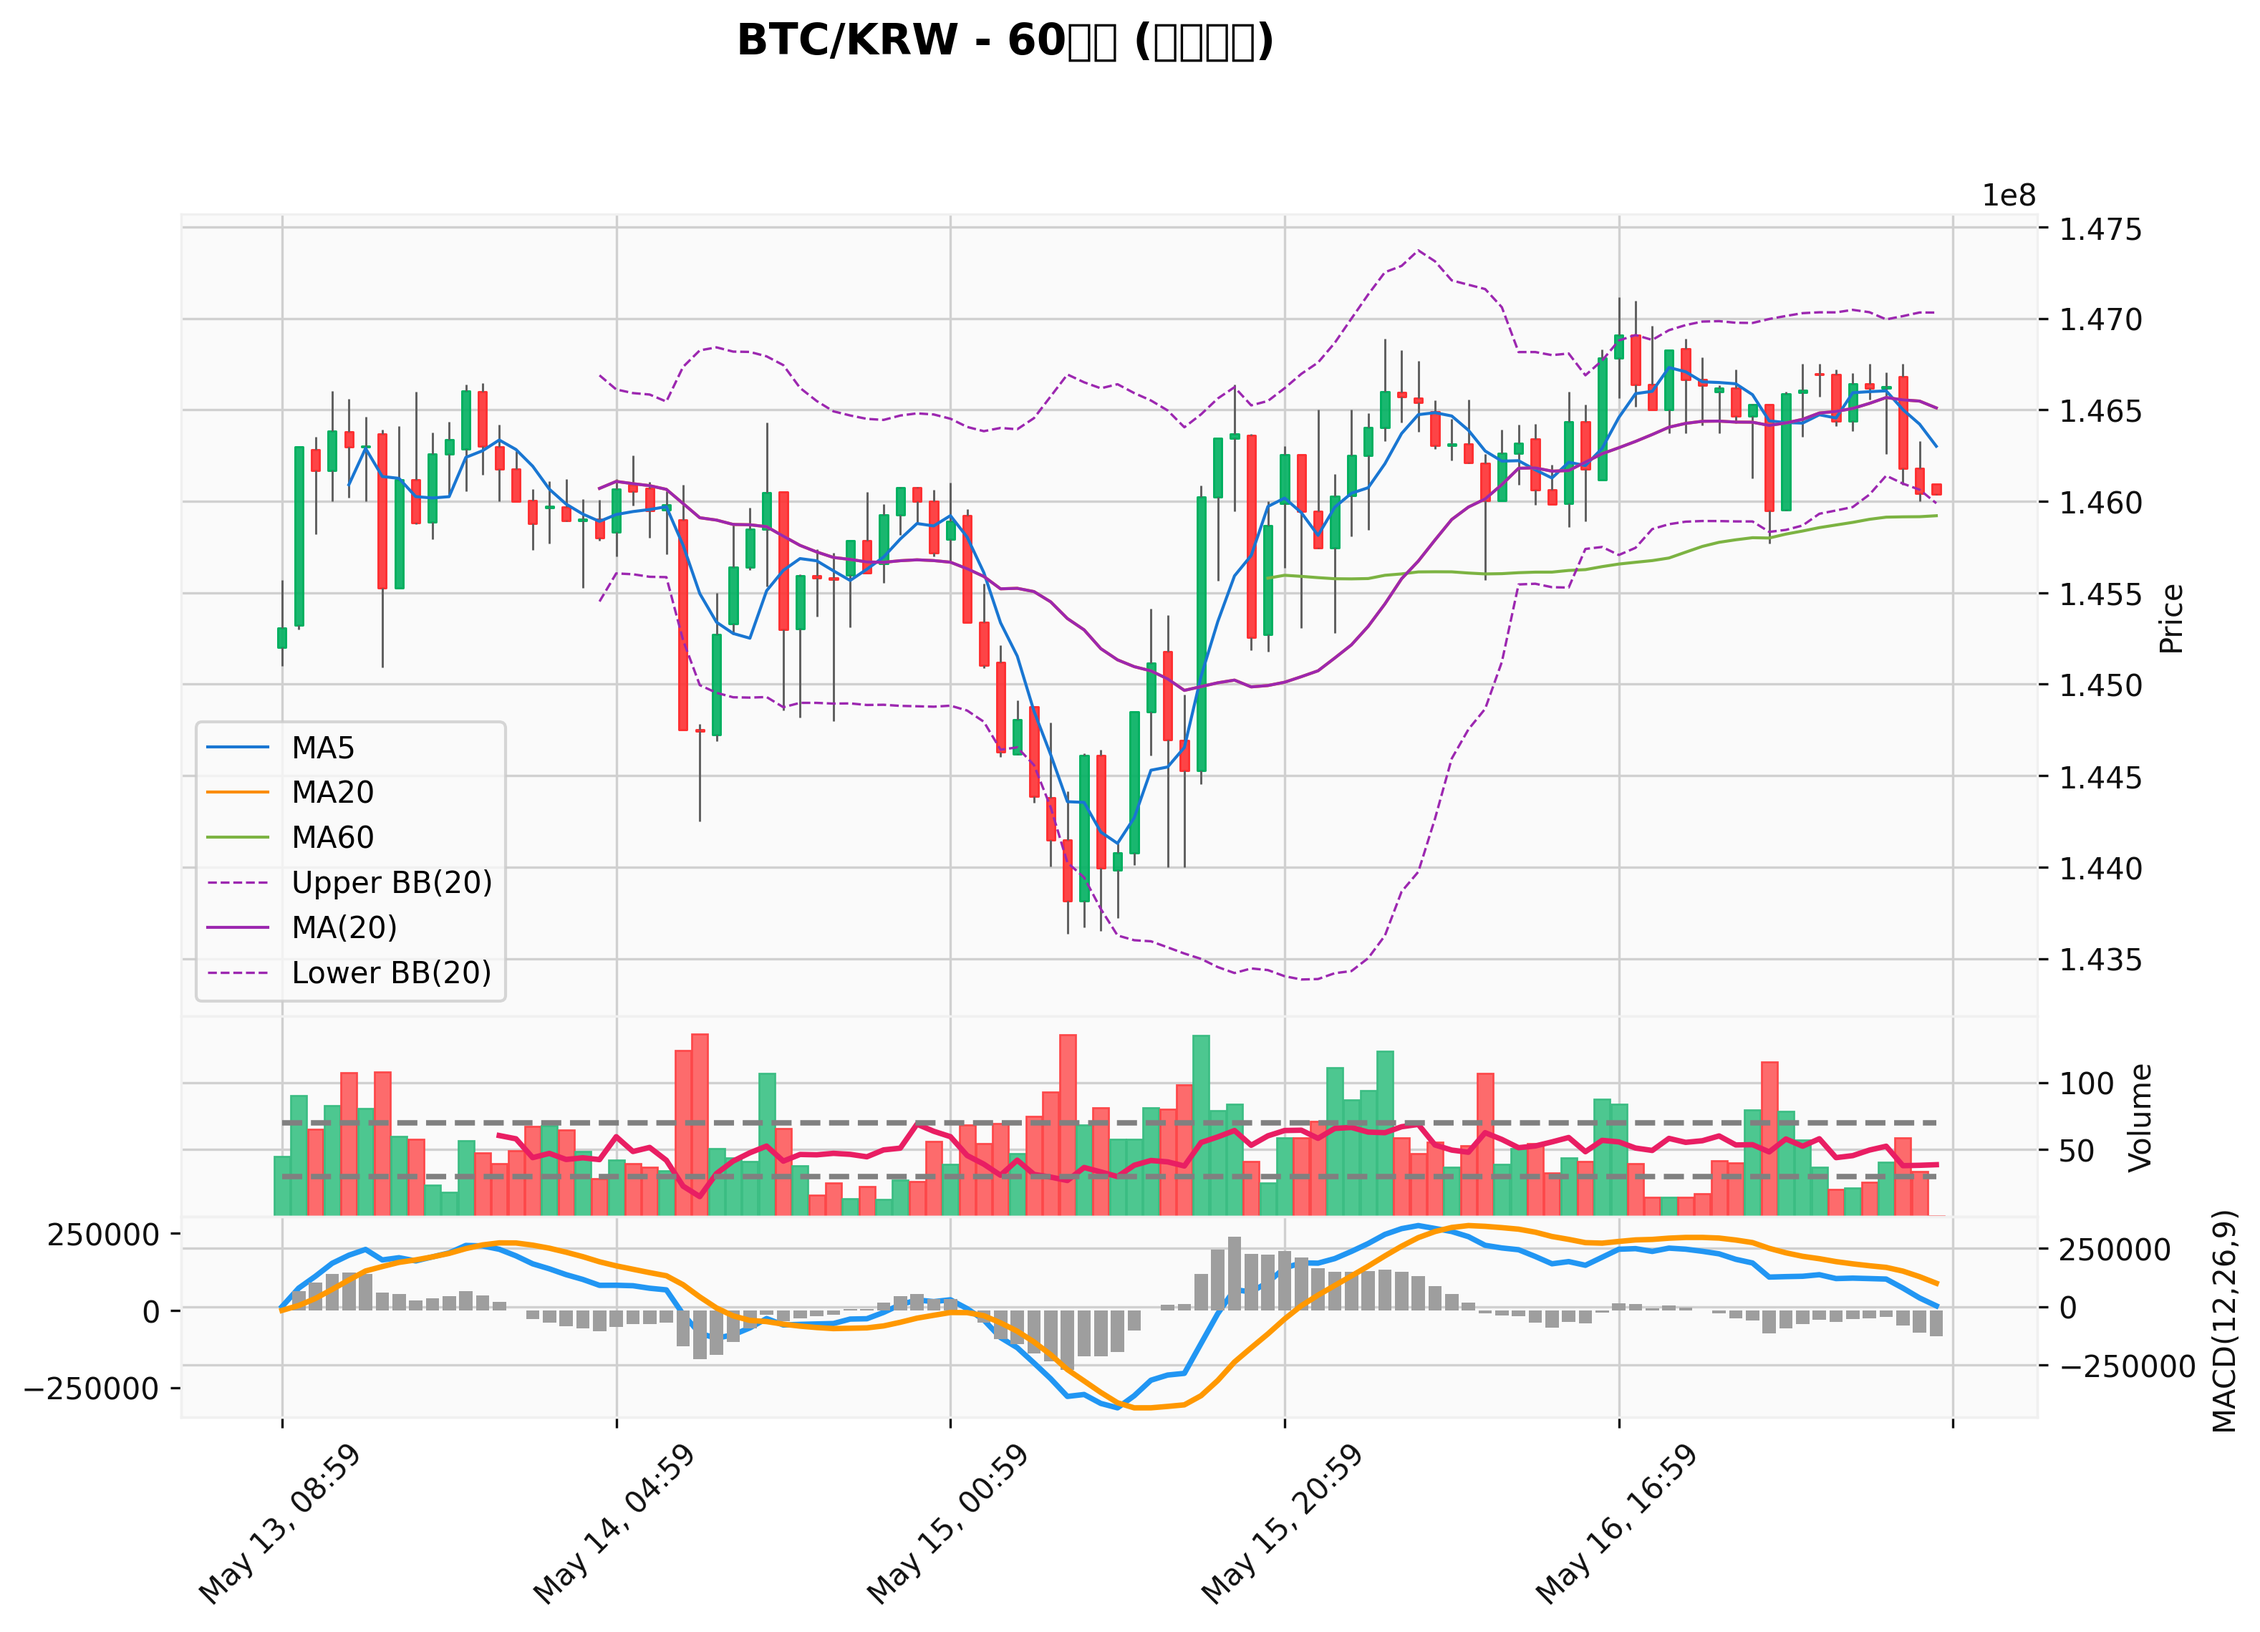
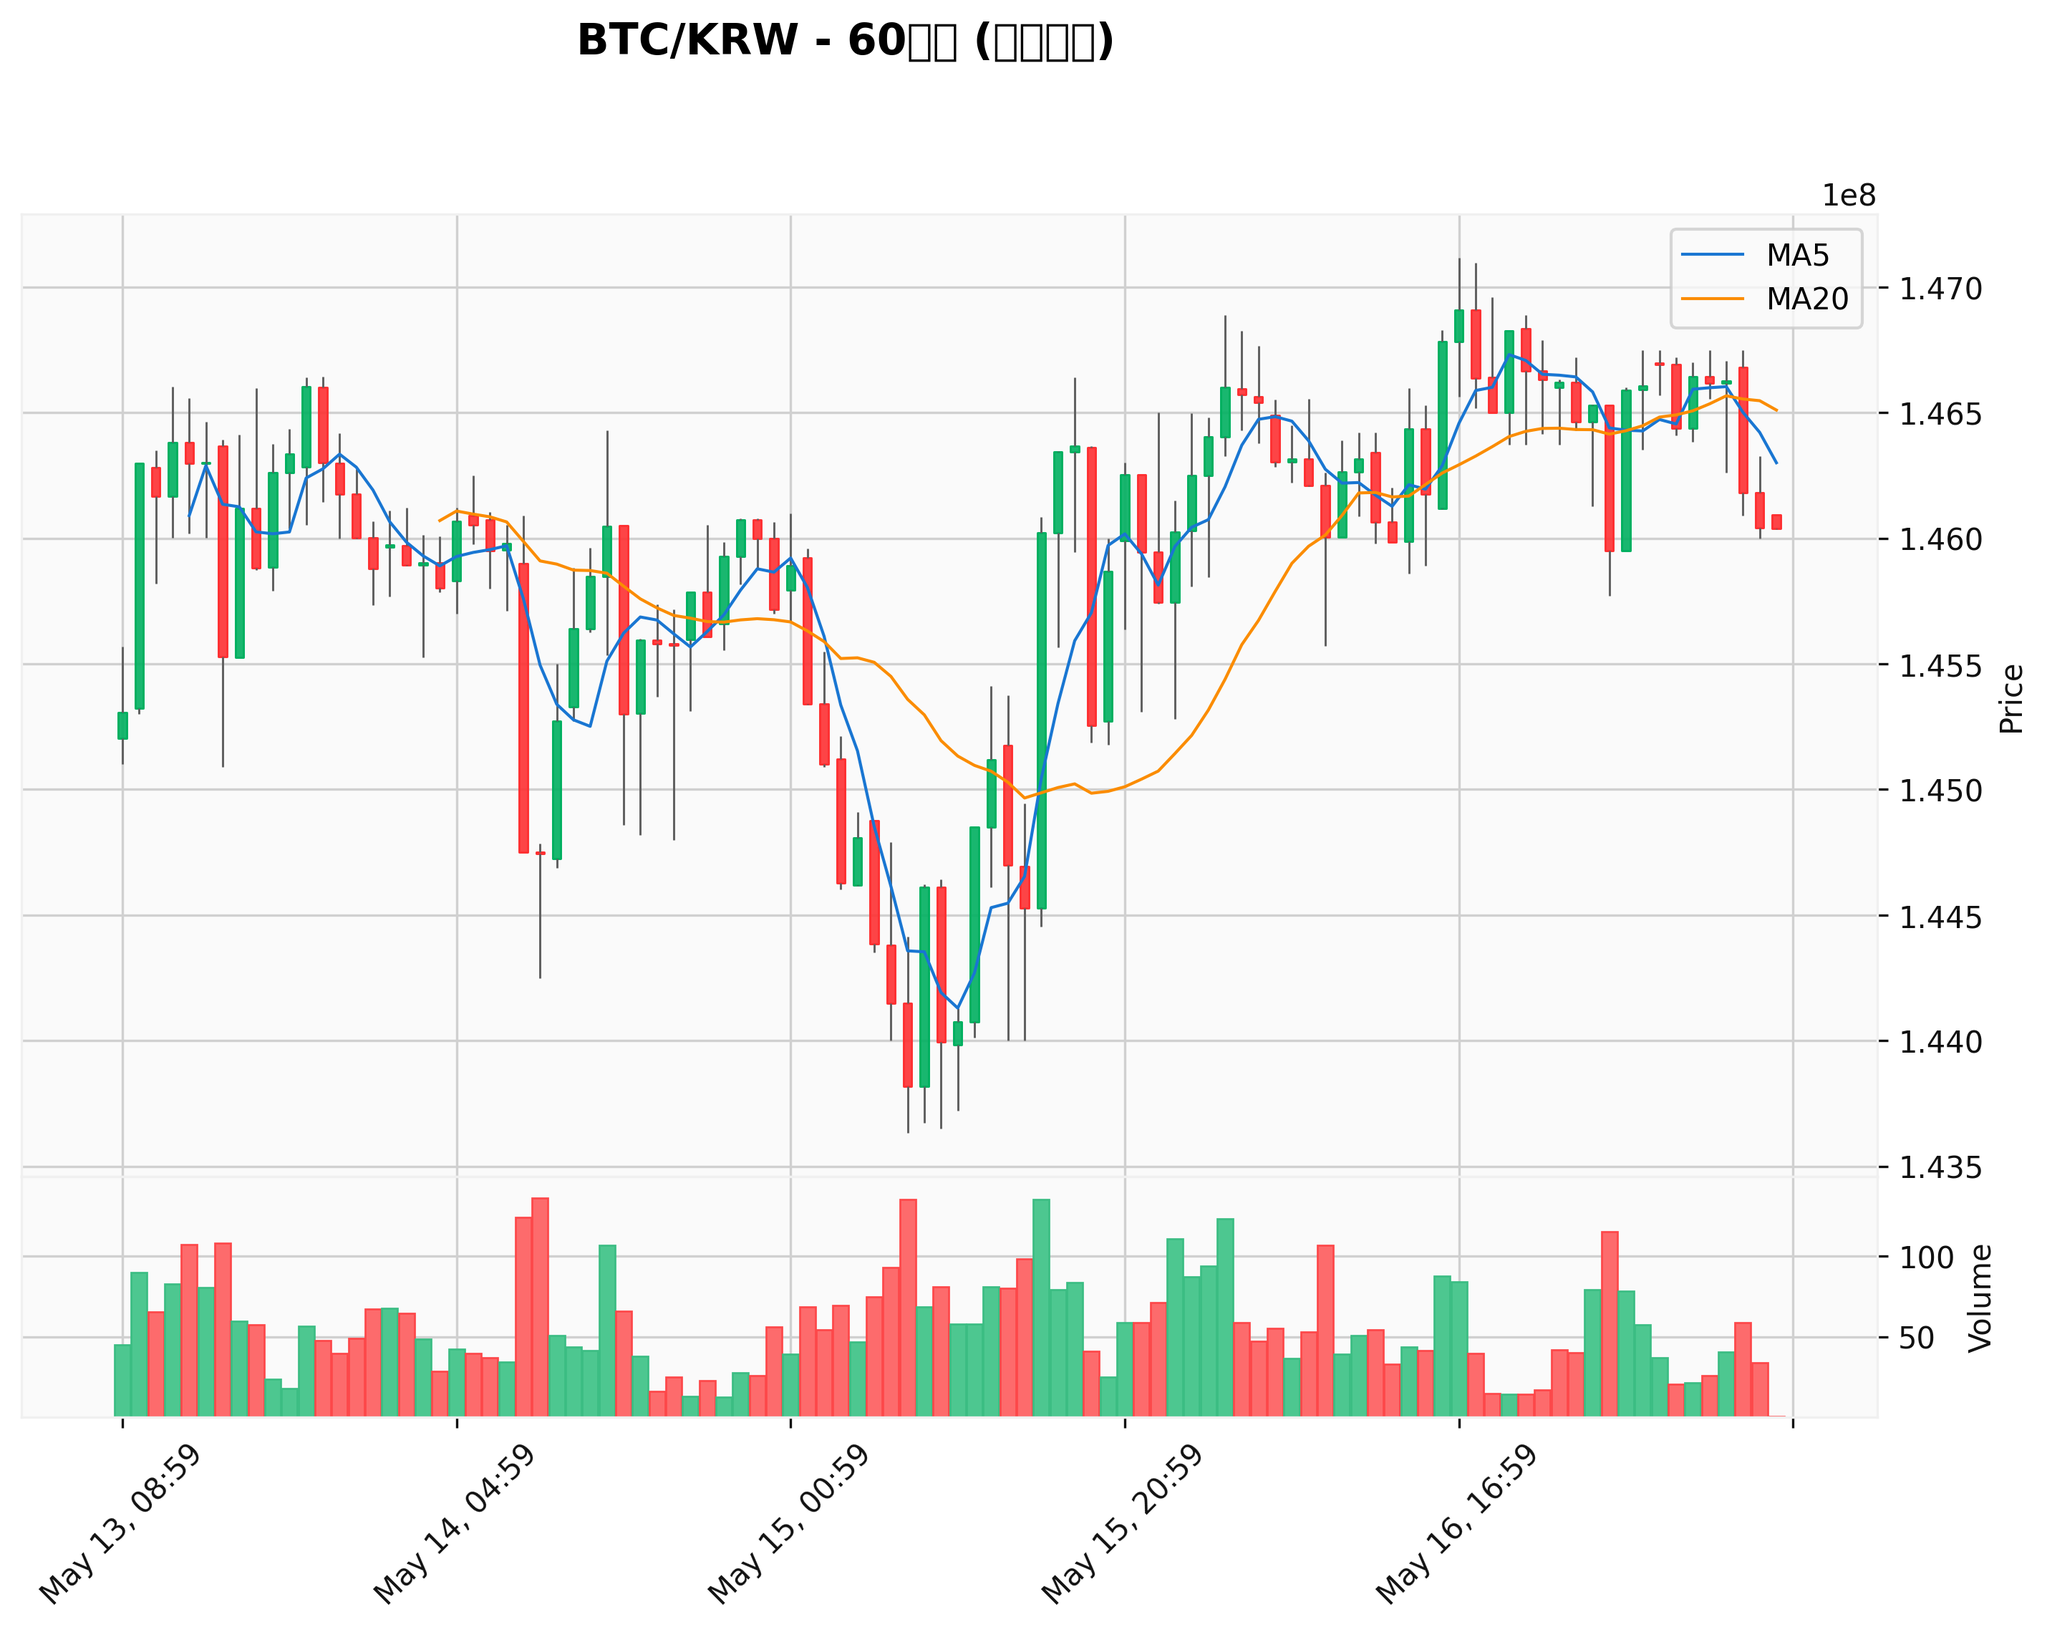
한국식 캔들 차트 스타일 추가 (상승: 빨간색, 하락: 파란색)

diff --git a/test_chart.py b/test_chart.py
@@ -2,6 +2,7 @@ import os
 import matplotlib.pyplot as plt
 from datetime import datetime, timedelta
 import pandas as pd
+import mplfinance as mpf
 
 from coinrich.service.candle_service import CandleService
 from coinrich.chart.candle_chart import CandleChart
@@ -70,7 +71,7 @@ def test_multi_panel_chart():
     chart.plot(candles)
     
     # 이동평균선 추가
-    chart.add_moving_average([5, 20, 60])
+    chart.add_moving_average([5, 20])
     
     # 볼린저 밴드 추가
     chart.add_bollinger_bands(period=20)
@@ -83,6 +84,107 @@ def test_multi_panel_chart():
     
     # 차트 저장
     filepath = chart.save("btc_multi_panel.png")
+    print(f"차트 저장 완료: {filepath}")
+    
+    # 차트 표시
+    chart.show()
+    chart.close()
+    
+    return chart
+
+
+def test_korean_candle_chart():
+    """한국식 캔들 색상 테스트 (상승: 빨간색, 하락: 파란색)"""
+    print("\n=== 한국식 캔들 차트 테스트 ===")
+    
+    # 데이터 가져오기 (캐시 활용)
+    service = CandleService()
+    candles = service.get_minute_candles("KRW-BTC", unit=15, count=100)
+    
+    # MinuteCandleList를 DataFrame으로 변환
+    candle_data = []
+    for candle in candles:
+        candle_data.append({
+            'datetime': pd.to_datetime(candle.candle_date_time_utc),
+            'open': candle.opening_price,
+            'high': candle.high_price,
+            'low': candle.low_price,
+            'close': candle.trade_price,
+            'volume': candle.candle_acc_trade_volume
+        })
+    
+    df = pd.DataFrame(candle_data)
+    df.set_index('datetime', inplace=True)
+    df.sort_index(inplace=True)  # 시간순 정렬
+    
+    # 직접 mpf.plot() 사용하여 한국식 색상 적용
+    print("한국식 캔들 차트 (상승: 빨간색, 하락: 파란색) 생성 중...")
+    
+    # 한국식 캔들 색상 스타일 정의
+    mc = mpf.make_marketcolors(
+        up='#FF3232',         # 상승봉 색상 (빨간색)
+        down='#0066FF',       # 하락봉 색상 (파란색)
+        edge='inherit',       # 캔들 테두리는 몸통 색상과 동일
+        wick='inherit',       # 심지 색상은 몸통 색상과 동일
+        volume='inherit',     # 거래량은 캔들 색상과 동일
+    )
+    
+    s = mpf.make_mpf_style(marketcolors=mc)
+    
+    # 차트 저장 디렉토리 생성
+    os.makedirs('charts', exist_ok=True)
+    
+    # 이동평균선 계산
+    df['MA5'] = df['close'].rolling(window=5).mean()
+    df['MA20'] = df['close'].rolling(window=20).mean()
+    df['MA60'] = df['close'].rolling(window=60).mean()
+    
+    # 이동평균선 추가
+    apds = [
+        mpf.make_addplot(df['MA5'], color='#1976D2', width=1),
+        mpf.make_addplot(df['MA20'], color='#FB8C00', width=1),
+        mpf.make_addplot(df['MA60'], color='#7CB342', width=1)
+    ]
+    
+    # 차트 생성
+    fig, axes = mpf.plot(
+        df, 
+        type='candle', 
+        style=s,
+        title="BTC/KRW - 15분봉 (한국식 색상)",
+        volume=True,
+        addplot=apds,
+        returnfig=True,
+        figsize=(12, 8)
+    )
+    
+    # 차트 저장
+    filepath = os.path.join('charts', 'btc_korean_style.png')
+    fig.savefig(filepath, dpi=300, bbox_inches='tight')
+    print(f"차트 저장 완료: {filepath}")
+    
+    # 차트 표시
+    plt.show()
+    plt.close(fig)
+
+
+def test_korean_candle_style_class():
+    """CandleChart 클래스를 사용한 한국식 캔들 차트 테스트"""
+    print("\n=== CandleChart 클래스로 한국식 캔들 차트 테스트 ===")
+    
+    # 데이터 가져오기 (캐시 활용)
+    service = CandleService()
+    candles = service.get_minute_candles("KRW-BTC", unit=15, count=100)
+    
+    # 차트 생성 (한국식 스타일)
+    chart = CandleChart(title="BTC/KRW - 15분봉 (한국식 색상 - 클래스)", style="korean")
+    chart.plot(candles)
+    
+    # 이동평균선 추가
+    chart.add_moving_average([5, 20, 60])
+    
+    # 차트 저장
+    filepath = chart.save("btc_korean_style_class.png")
     print(f"차트 저장 완료: {filepath}")
     
     # 차트 표시
@@ -149,5 +251,7 @@ if __name__ == "__main__":
     # 테스트할 함수 선택하여 실행
     # test_basic_candle_chart()
     # test_indicator_chart()
-    test_multi_panel_chart()
+    # test_multi_panel_chart()
+    # test_korean_candle_chart()  # 한국식 캔들 차트 테스트 (직접 mpf.plot 사용)
+    test_korean_candle_style_class()  # CandleChart 클래스로 한국식 캔들 차트 테스트
     # test_multiple_coins() 

diff --git a/coinrich/chart/candle_chart.py b/coinrich/chart/candle_chart.py
@@ -54,8 +54,22 @@ class CandleChart(BaseChart):
         Returns:
             스타일 설정 딕셔너리
         """
+        if style_name == 'korean':
+            # 한국식 캔들 색상 (상승: 빨간색, 하락: 파란색)
+            mc = mpf.make_marketcolors(
+                up='#FF3232',         # 상승봉 색상 (빨간색)
+                down='#0066FF',       # 하락봉 색상 (파란색)
+                edge='inherit',       # 캔들 테두리는 몸통 색상과 동일
+                wick='inherit',       # 심지 색상은 몸통 색상과 동일
+                volume='inherit',     # 거래량은 캔들 색상과 동일
+            )
+            
+            return mpf.make_mpf_style(
+                base_mpf_style='yahoo',
+                marketcolors=mc
+            )
         # mplfinance 기본 스타일 사용
-        if style_name in ['binance', 'upbit']:
+        elif style_name in ['binance', 'upbit']:
             # 커스텀 스타일이 호환성 문제로 직접 구현하지 않고 기본 스타일 사용
             if style_name == 'binance':
                 return 'yahoo'
